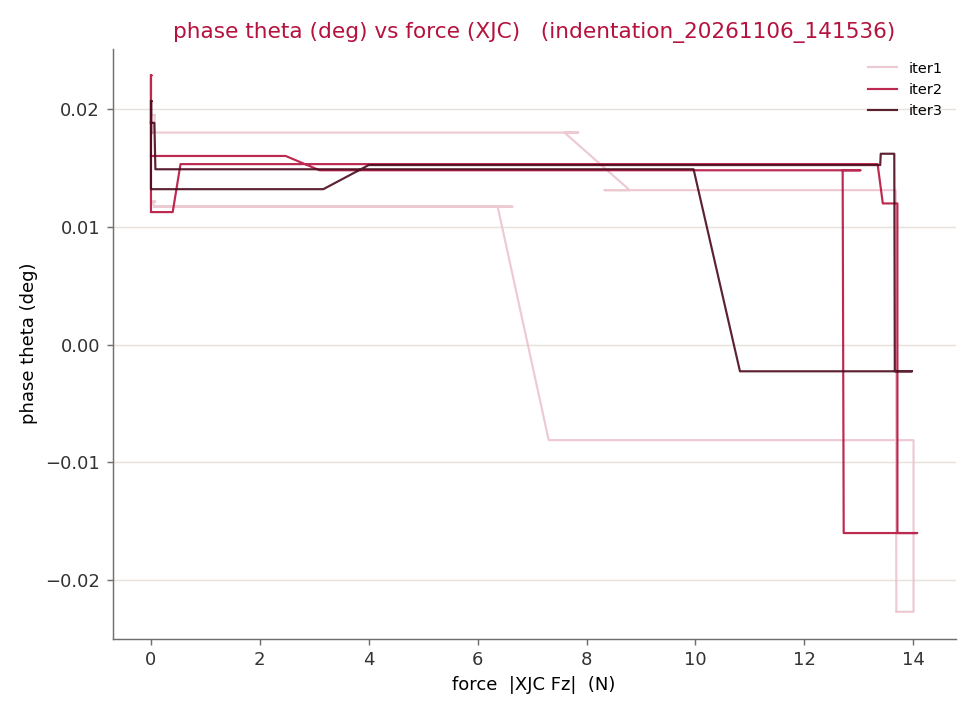
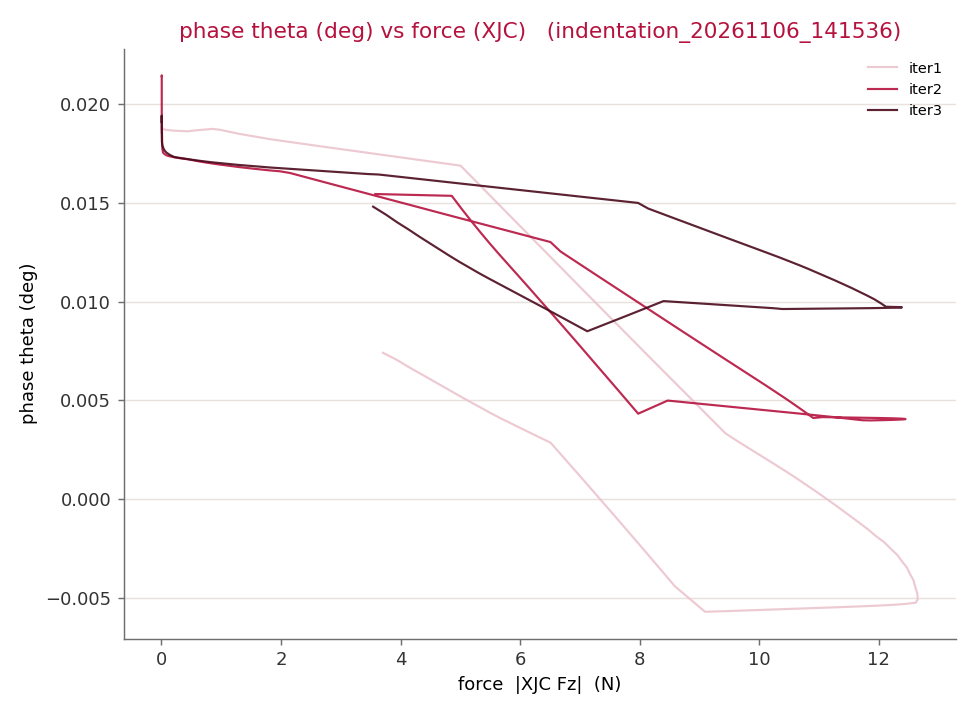
indentation_test: smooth LCR traces by default (auto-sized to the staircase)
The LCR updates at ~10 Hz so its curves looked stepped. Now the analyzer
smooths LCR traces by default with a window auto-sized to ~3x the detected
staircase step (override with --lcr-smooth, 0 = raw). Force/indentation
curves still follow --smooth. Regenerated the sylgard figures.

diff --git a/indentation_test/analyze_indentation.py b/indentation_test/analyze_indentation.py
@@ -107,7 +107,7 @@ def _f(row, key):
         return float('nan')
 
 
-def plot(csv_path, meta_path=None, show=True, smooth=0):
+def plot(csv_path, meta_path=None, show=True, smooth=0, lcr_smooth=None):
     import numpy as np
     import matplotlib
     if not show:
@@ -138,9 +138,29 @@ def plot(csv_path, meta_path=None, show=True, smooth=0):
     os.makedirs(out_dir, exist_ok=True)
     base = os.path.splitext(os.path.basename(csv_path))[0]
     # Smoothed figures get a _sm<N> suffix so they sit alongside the raw ones.
+    # Force/indentation curves follow `smooth` (0 = raw by default). The LCR is
+    # updated at only ~10 Hz so its traces look stepped — smooth those BY DEFAULT
+    # with a window auto-sized to the staircase (override/disable with lcr_smooth).
     smooth = int(smooth or 0)
     tag = f'_sm{smooth}' if smooth > 1 else ''
-    sm  = (lambda a: _movavg(a, smooth))
+    lcr_vals = np.array([_f(r, 'lcr_primary') for r in rows])
+    if lcr_smooth is None:
+        fin = lcr_vals[np.isfinite(lcr_vals)]
+        step = 1
+        if fin.size > 10:
+            ch = np.where(np.diff(fin) != 0)[0]
+            if ch.size > 2:
+                step = int(np.median(np.diff(ch)))
+        lcr_win = int(np.clip(3 * step, 51, 601))
+        if smooth > 1:
+            lcr_win = smooth                 # an explicit global --smooth wins
+    else:
+        lcr_win = int(lcr_smooth)
+    sm     = (lambda a: _movavg(a, smooth))
+    sm_lcr = (lambda a: _movavg(a, lcr_win))
+    if lcr_win > 1:
+        print(f'[plot] LCR traces smoothed with a {lcr_win}-sample window '
+              f'(~{lcr_win} ms) — set --lcr-smooth 0 for raw')
 
     # Group rows by iteration, keeping only the press+hold+retract (indentation ≥ ~0).
     def series(rows_i, ykey):
@@ -201,8 +221,8 @@ def plot(csv_path, meta_path=None, show=True, smooth=0):
                 # so gating on it would wrongly blank the curve — mark not-ok
                 # points faintly instead of dropping them.
                 good = np.isfinite(x) & np.isfinite(y)
-                ax.plot(sm(x[good]), sm(y[good]), '-', color=c, lw=1.4, alpha=0.9,
-                        label=f'iter{it + 1}')
+                ax.plot(sm_lcr(x[good]), sm_lcr(y[good]), '-', color=c, lw=1.4,
+                        alpha=0.9, label=f'iter{it + 1}')
             ax.set_xlabel('indentation (mm)')
             ax.set_ylabel(ylabel)
             ax.set_title(f'Indentation vs {ylabel}   ({base}){"  [smoothed]" if tag else ""}')
@@ -225,8 +245,8 @@ def plot(csv_path, meta_path=None, show=True, smooth=0):
                 fx = np.array([abs(_f(r, 'xjc_Fz')) for r in ri])   # |Fz| (N)
                 yy = np.array([_f(r, ykey) for r in ri])
                 good = np.isfinite(fx) & np.isfinite(yy)
-                ax.plot(sm(fx[good]), sm(yy[good]), '-', color=c, lw=1.2, alpha=0.9,
-                        label=f'iter{it + 1}')
+                ax.plot(sm_lcr(fx[good]), sm_lcr(yy[good]), '-', color=c, lw=1.2,
+                        alpha=0.9, label=f'iter{it + 1}')
             ax.set_xlabel('force  |XJC Fz|  (N)')
             ax.set_ylabel(ylabel)
             ax.set_title(f'{ylabel} vs force (XJC)   ({base}){"  [smoothed]" if tag else ""}')
@@ -278,7 +298,10 @@ def plot(csv_path, meta_path=None, show=True, smooth=0):
                             lw=0.8, color=SDU_BLUE, alpha=0.8, label='XJC Fz')
                 ax.legend(loc='upper right', fontsize=7, frameon=False)
             else:
-                y = sm(np.array([_f(r, key) for r in cyc]))
+                # LCR panels (lcr_*) get the default LCR smoothing; indentation
+                # follows the global --smooth.
+                raw = np.array([_f(r, key) for r in cyc])
+                y = sm_lcr(raw) if key.startswith('lcr_') else sm(raw)
                 ax.plot(t, y, '-', lw=0.8, color=panel_color.get(key, SDU_RED))
             ax.set_ylabel(spec[1], fontsize=9)
             _style(ax)
@@ -309,14 +332,18 @@ def main():
     ap.add_argument('--meta', default=None, help='meta.json (default: alongside the CSV)')
     ap.add_argument('--no-show', action='store_true', help='save PNGs only, do not display')
     ap.add_argument('--smooth', type=int, default=0, metavar='N',
-                    help='Moving-average window in samples (0=off). Smooths the robot '
-                         'µm-jitter and the LCR staircase; try ~101-301 at 1 kHz. '
-                         'Smoothed figures are saved with a _sm<N> suffix.')
+                    help='Moving-average window in samples for the FORCE/indentation '
+                         'curves (0=off). Try ~101-301 at 1 kHz. Smoothed figures get '
+                         'a _sm<N> suffix.')
+    ap.add_argument('--lcr-smooth', type=int, default=None, metavar='N',
+                    help='Moving-average window for the LCR traces (default: auto, '
+                         'sized to the ~10 Hz staircase; use 0 for raw).')
     args = ap.parse_args()
     if not os.path.exists(args.csv):
         print(f'[plot] not found: {args.csv}')
         sys.exit(1)
-    plot(args.csv, args.meta, show=not args.no_show, smooth=args.smooth)
+    plot(args.csv, args.meta, show=not args.no_show,
+         smooth=args.smooth, lcr_smooth=args.lcr_smooth)
 
 
 if __name__ == '__main__':

diff --git a/indentation_test/README.md b/indentation_test/README.md
@@ -166,3 +166,9 @@ python3 analyze_indentation.py results/<material>/indentation_<material>_<timest
   after another, with iteration boundaries marked (`c1`, `c2`, …)
 
 In the indentation-vs-* figures each ramp iteration is a separate trace.
+
+**Smoothing:** the LCR traces are **smoothed by default** (the meter updates at
+only ~10 Hz so the raw curve is stepped; the window is auto-sized to the
+staircase — use `--lcr-smooth 0` for raw, or a number to override). The
+force/indentation curves are raw unless you pass `--smooth N` (which also writes
+`_sm<N>` copies and tames the robot's ±15 µm feedback jitter).
